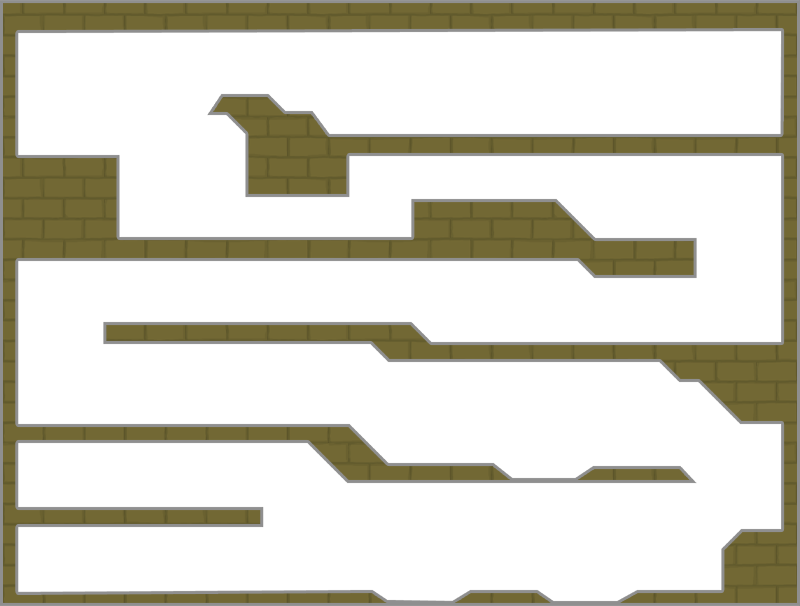
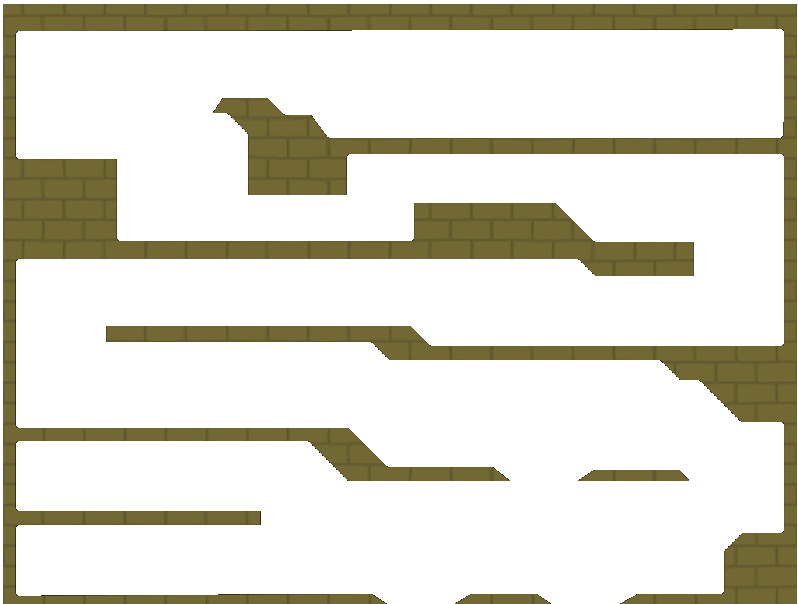
edit ground level1

diff --git a/Source.cpp b/Source.cpp
@@ -8,12 +8,19 @@ using namespace sf;
 
 void Game_Play(RenderWindow& window);
 void Main_Menu(RenderWindow& window);
+void Levels(RenderWindow& window);
+struct grounds {
+	RectangleShape ground[20];
+	Texture gr_levels[10],bgr_background[10];
+	Sprite ground_levels[10],background_levels[10];
+
+}level[10];
 
 int main()
 {
 	// load fireboy & water girl
 	RenderWindow window(VideoMode(1280, 720), "FireBoy&WaterGirl");
-	window.setFramerateLimit(60);
+	window.setFramerateLimit(40);
 
 
 	while (window.isOpen())
@@ -164,21 +171,44 @@ void Main_Menu(RenderWindow& window)
 	}
 
 }
-void Game_Play(RenderWindow& window)
-{
-	Texture F, W,gr,bgr;
-	Sprite FireBoy, WaterGirl,background,ground;
+void Levels(RenderWindow& window) {
+
+	
+	
+
+	//ground
+	level[1].gr_levels[1].loadFromFile("Level_1_ground.png");
+	level[1].ground_levels[1].setTexture(level[1].gr_levels[1]);
+	
+	level[1].ground_levels[1].setScale(1.6, 1.2);
+
 
 
 	//background
-	bgr.loadFromFile("gamplay_background.jpg");
-	background.setTexture(bgr);
-	background.setScale(1.6, 1.2);
+	level[1].bgr_background[1].loadFromFile("gamplay_background.png");
+	level[1].background_levels[1].setTexture(level[1].bgr_background[1]);
+	//level[1].background_levels[1].setScale(1.6, 1.2);
+	
+	//game levels
 
-	//level 1 ground
-	gr.loadFromFile("Level_1_ground.png");
-	ground.setTexture(gr);
-	ground.setScale(1.6, 1.2);
+	
+	
+
+
+
+	
+	
+
+}
+
+void Game_Play(RenderWindow& window)
+{
+	
+	Texture F, W;
+	Sprite FireBoy, WaterGirl;
+
+	//levels
+	Levels(window);
 
 
 	//set fireboy
@@ -186,6 +216,7 @@ void Game_Play(RenderWindow& window)
 	FireBoy.setTexture(F);
 	FireBoy.setPosition(450, 650);
 	FireBoy.setOrigin(FireBoy.getLocalBounds().width / 124, FireBoy.getLocalBounds().height / 2);
+	FireBoy.setScale(0.9f, 0.9f);
 
 
 	//set watergirl
@@ -193,20 +224,21 @@ void Game_Play(RenderWindow& window)
 	WaterGirl.setPosition(400, 650);
 	WaterGirl.setTexture(W);
 	WaterGirl.setOrigin(WaterGirl.getLocalBounds().width / 106, WaterGirl.getLocalBounds().height / 2);
+	WaterGirl.setScale(0.9f, 0.9f);
 
 
 	// rectangle the box
 	RectangleShape RectangleDown(Vector2f(1280, 10));
 	RectangleDown.setPosition(0, 710);
 	RectangleDown.setFillColor(Color::Red);
-	
+
 
 
 	//sentaces
 	int animationStandingFireBoy = 0, animationStandingWaterGirl = 0;
 	int moveFireBoy = 17, moveWaterGirl = 6;
 	double velocityFireBoy = 0, velocityWaterGirl = 0;
-	bool isAnimationStandingWaterGirl = true, isAnimationStandingFireBoy = true, isMoveFireBoy = true,  isMoveWaterGirl = true;
+	bool isAnimationStandingWaterGirl = true, isAnimationStandingFireBoy = true, isMoveFireBoy = true, isMoveWaterGirl = true;
 	Clock clocksf, clocksw, clockf, clockw;
 
 
@@ -221,7 +253,7 @@ void Game_Play(RenderWindow& window)
 			}
 		}
 
-
+		
 		//hitbox fire boy
 		RectangleShape hitpoxf(Vector2f(60, 100));
 		hitpoxf.setOrigin(30, 35);
@@ -239,7 +271,7 @@ void Game_Play(RenderWindow& window)
 			if (Keyboard::isKeyPressed(Keyboard::Key::Up))
 			{
 
-				velocityWaterGirl = 7;
+				velocityWaterGirl = 6.5;
 			}
 		}
 		else
@@ -253,7 +285,7 @@ void Game_Play(RenderWindow& window)
 			velocityFireBoy = 0;
 			if (Keyboard::isKeyPressed(Keyboard::Key::W))
 			{
-				velocityFireBoy = 7;
+				velocityFireBoy = 6.5;
 			}
 		}
 		else
@@ -300,8 +332,8 @@ void Game_Play(RenderWindow& window)
 			isMoveFireBoy = false;
 			isAnimationStandingFireBoy = true;
 		}
-		else{ isMoveFireBoy = true; }
-		
+		else { isMoveFireBoy = true; }
+
 
 
 
@@ -320,11 +352,11 @@ void Game_Play(RenderWindow& window)
 					if (moveFireBoy > 27)moveFireBoy -= 11;
 					clockf.restart();
 				}
-				FireBoy.setScale(-1, 1);
+				FireBoy.setScale(-0.9f, 0.9f);
 				FireBoy.move(-5, 0);
 
 			}
-			
+
 
 			else if (Keyboard::isKeyPressed(Keyboard::Key::D) && FireBoy.getPosition().x < 1245)
 			{
@@ -337,7 +369,7 @@ void Game_Play(RenderWindow& window)
 					if (moveFireBoy > 27)moveFireBoy -= 11;
 					clockf.restart();
 				}
-				FireBoy.setScale(1, 1);
+				FireBoy.setScale(0.9f, 0.9f);
 				FireBoy.move(5, 0);
 
 			}
@@ -359,10 +391,11 @@ void Game_Play(RenderWindow& window)
 
 					clockw.restart();
 				}
-				WaterGirl.setScale(1, 1);
+				WaterGirl.setScale(0.9f, 0.9f);
 				WaterGirl.move(5, 0);
 
-			}else if (Keyboard::isKeyPressed(Keyboard::Key::Left) && WaterGirl.getPosition().x > 35)
+			}
+			else if (Keyboard::isKeyPressed(Keyboard::Key::Left) && WaterGirl.getPosition().x > 35)
 			{
 				isAnimationStandingWaterGirl = false;
 				WaterGirl.setTextureRect(IntRect(118 * moveWaterGirl, 0, 118, 130));
@@ -373,7 +406,7 @@ void Game_Play(RenderWindow& window)
 
 					clockw.restart();
 				}
-				WaterGirl.setScale(-1, 1);
+				WaterGirl.setScale(-0.9f, 0.9f);
 				WaterGirl.move(-5, 0);
 
 			}
@@ -388,12 +421,11 @@ void Game_Play(RenderWindow& window)
 		////////////////////////
 
 		window.clear();
-
-		window.draw(background);
-		window.draw(ground);
+		window.draw(level[1].background_levels[1]);
+		window.draw(level[1].ground_levels[1]);
 		window.draw(FireBoy);
 		window.draw(WaterGirl);
-		
+
 		//window.draw(hitpoxf);
 	//	window.draw(hitpoxw);
 
